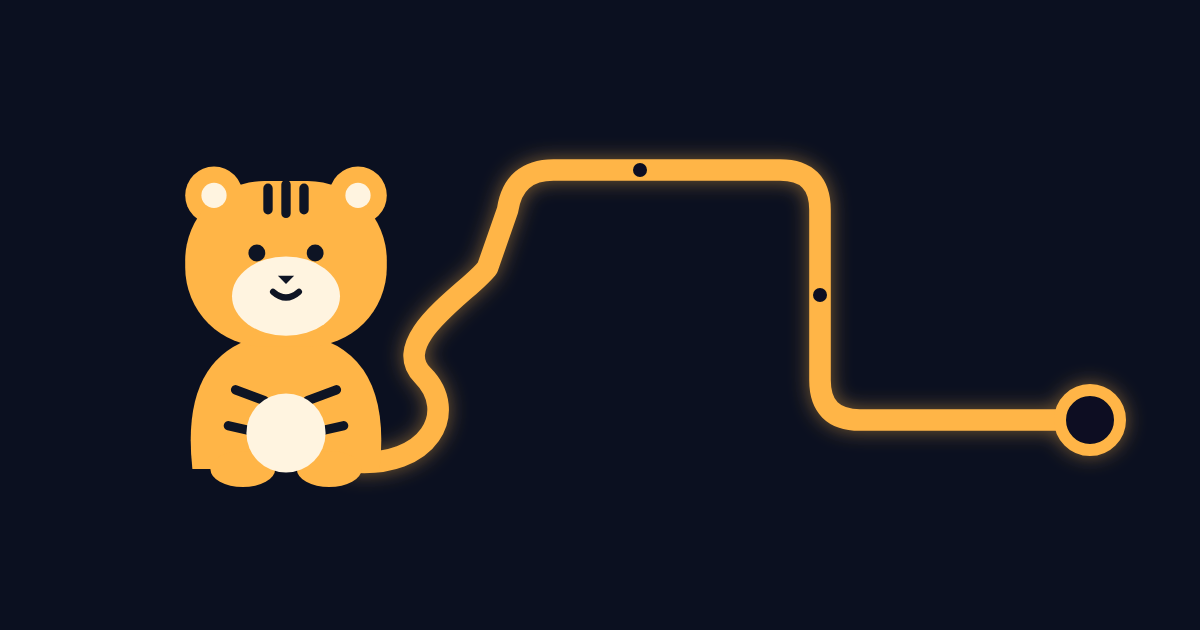
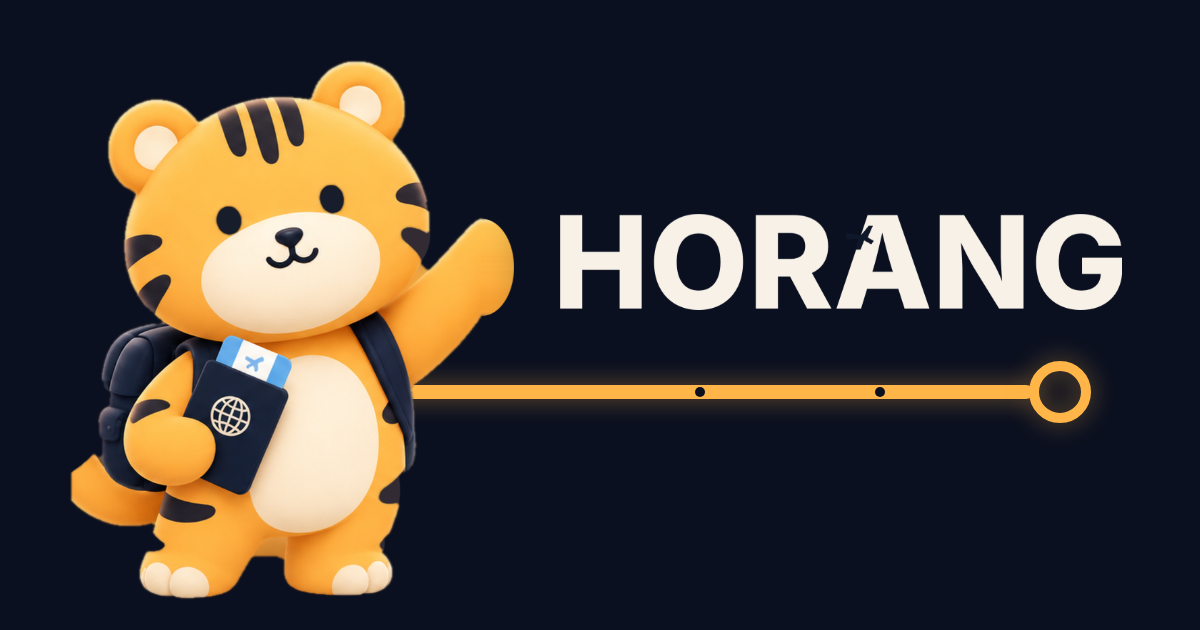
feat(seo): 공유 미리보기를 마스코트·워드마크와 리본으로
Claude-Session: https://claude.ai/code/session_01XFJ8zW8ERc6BzuwpBkCpbH

Changed region(s): [[0.0308, 0.0905, 0.9558, 0.9651]]

diff --git a/e2e/brand.spec.ts b/e2e/brand.spec.ts
@@ -202,4 +202,16 @@ test.describe("brand", () => {
     }
     await expect(page.locator('link[rel="icon"]')).toHaveAttribute("href", /\/icons\/icon\.svg/);
   });
+
+  test("share preview: og:image is the 1200×630 mascot picture and is not in the offline precache", async ({
+    page,
+    request,
+  }) => {
+    await page.goto("/ja/");
+    const url = await page.locator('meta[property="og:image"]').getAttribute("content");
+    const png = await (await request.get(new URL(url!).pathname)).body();
+    expect(`${png.readUInt32BE(16)}x${png.readUInt32BE(20)}`).toBe("1200x630");
+    const sw = await (await request.get("/sw.js")).text();
+    expect(sw).not.toContain('"/og.png"');
+  });
 });

diff --git a/src/app/seo.ts b/src/app/seo.ts
@@ -34,7 +34,7 @@ export function pageMetadata(lang: Locale, page: PagePath, rawTitle?: string): M
       title: title ?? t.meta.title,
       description: t.meta.description,
       locale: lang === "ja" ? "ja_JP" : "en_US",
-      // 글자 없는 그림 하나를 두 언어가 같이 쓴다(scripts/og.svg.mts). 제목은 og:title이 보여 준다
+      // 마스코트·워드마크 그림 하나를 두 언어가 같이 쓴다(scripts/make-og.mts). 제목은 og:title이 보여 준다
       images: [{ url: "/og.png", width: 1200, height: 630, alt: t.meta.description }],
     },
     twitter: { card: "summary_large_image" },
